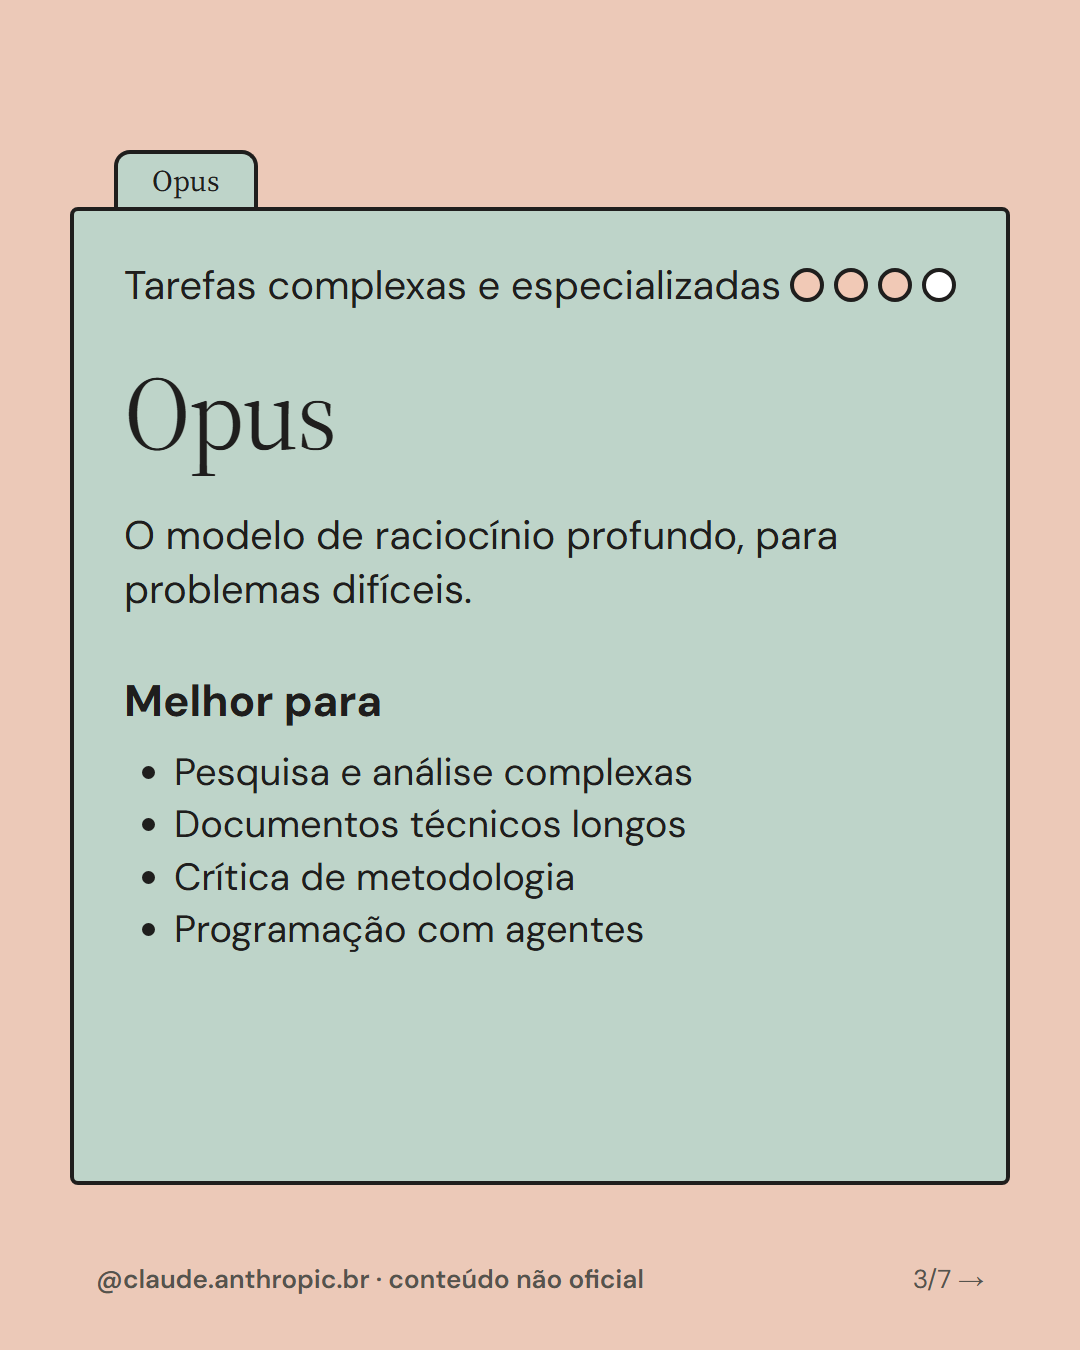
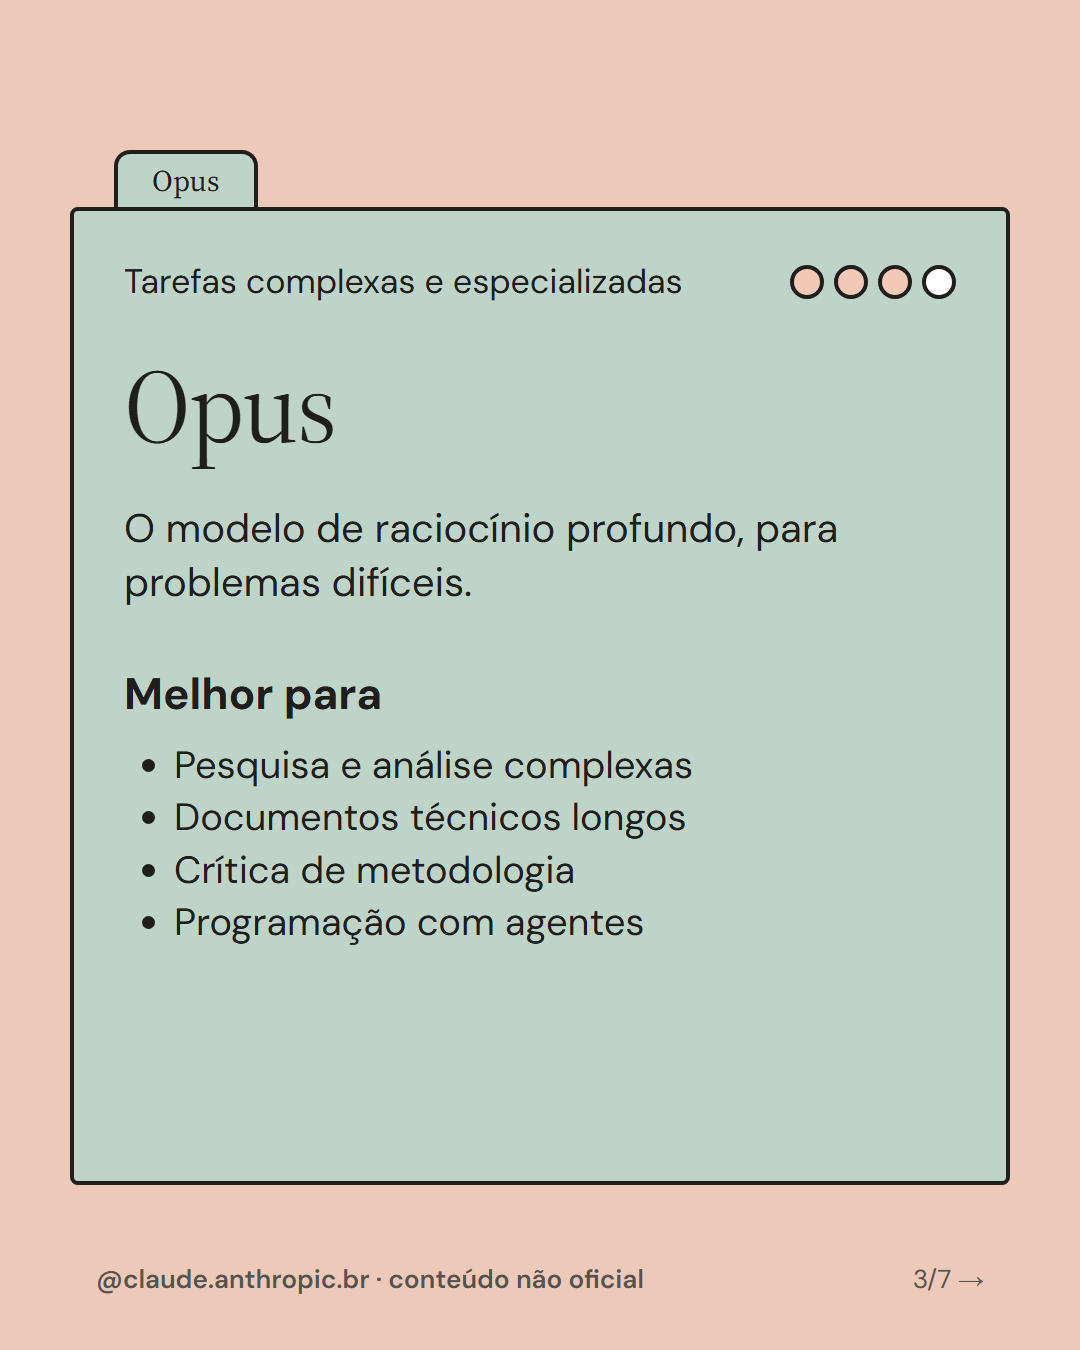
Ajusta card do Opus

diff --git a/posts/2026-11-10-escolher-modelo/post.js b/posts/2026-11-10-escolher-modelo/post.js
@@ -16,7 +16,7 @@ const card = (name, inner, pos = "left:70px;right:70px;top:150px;bottom:170px") 
 const model = name => {
   const m = M[name];
   return { html: card(name, `
-    <div style="display:flex;justify-content:space-between;align-items:center"><span style="font-size:40px">${m.tag}</span>
+    <div style="display:flex;justify-content:space-between;align-items:center"><span style="font-size:34px;margin-right:20px">${m.tag}</span>
       <span style="display:flex;gap:10px">${[1, 2, 3, 4].map(i => `<i style="display:block;width:34px;height:34px;border-radius:50%;border:4px solid #1f1e1d;background:${i <= m.dots ? "#f1c9b6" : "#fff"}"></i>`).join("")}</span></div>
     <div class="serif" style="font-size:104px;margin:30px 0 24px;font-weight:400">${name}</div>
     <div style="font-size:40px;line-height:1.35">${m.d}</div>
